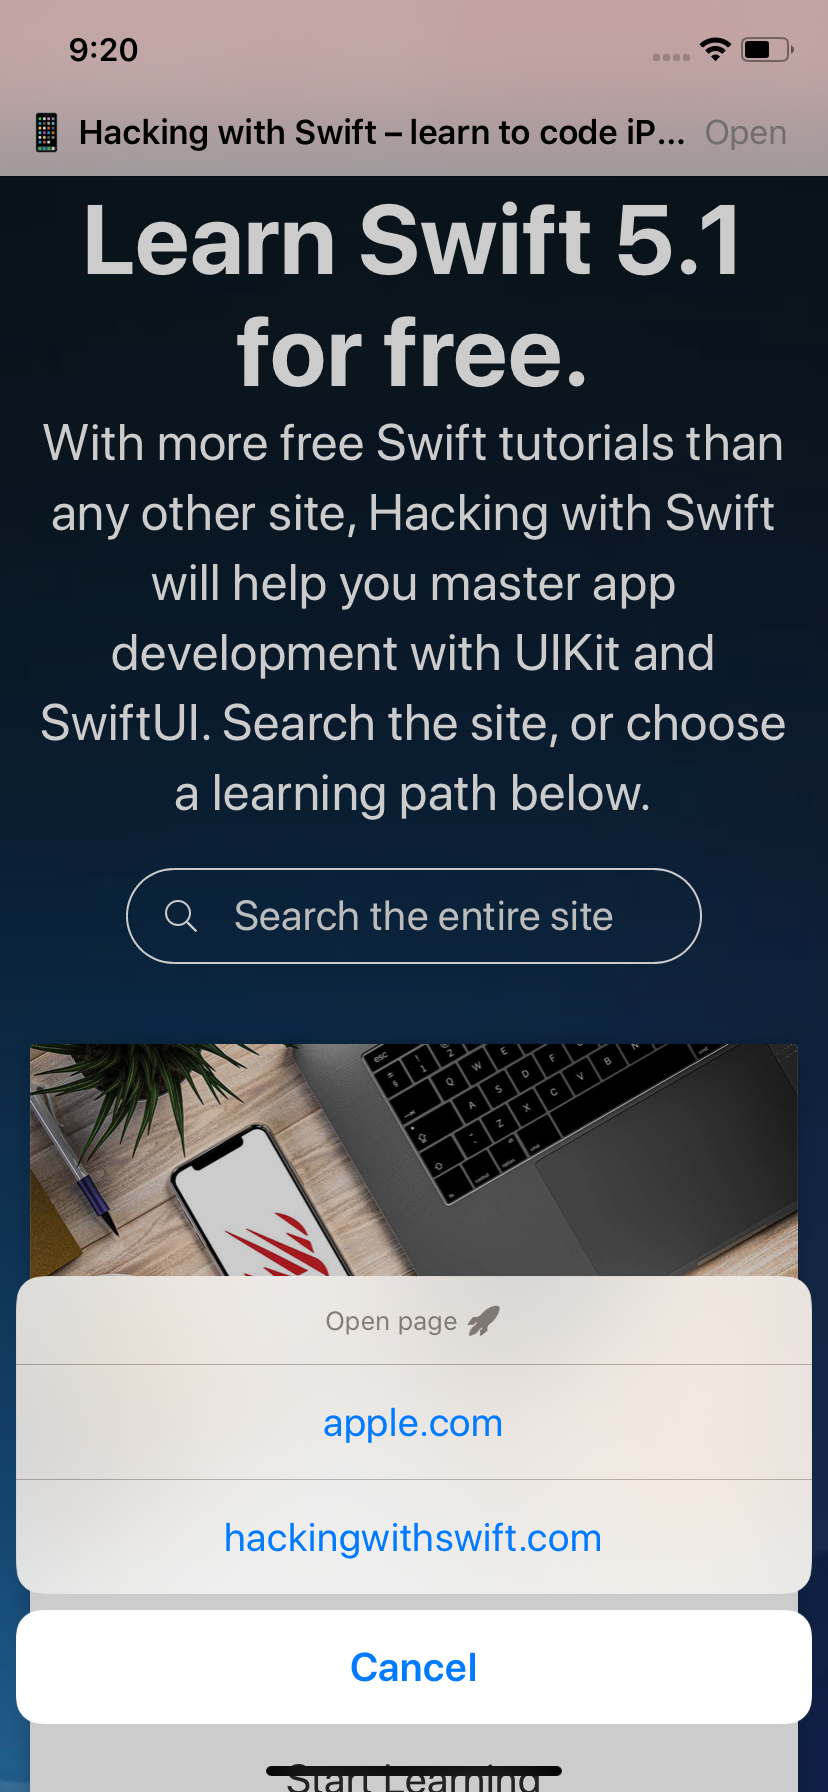
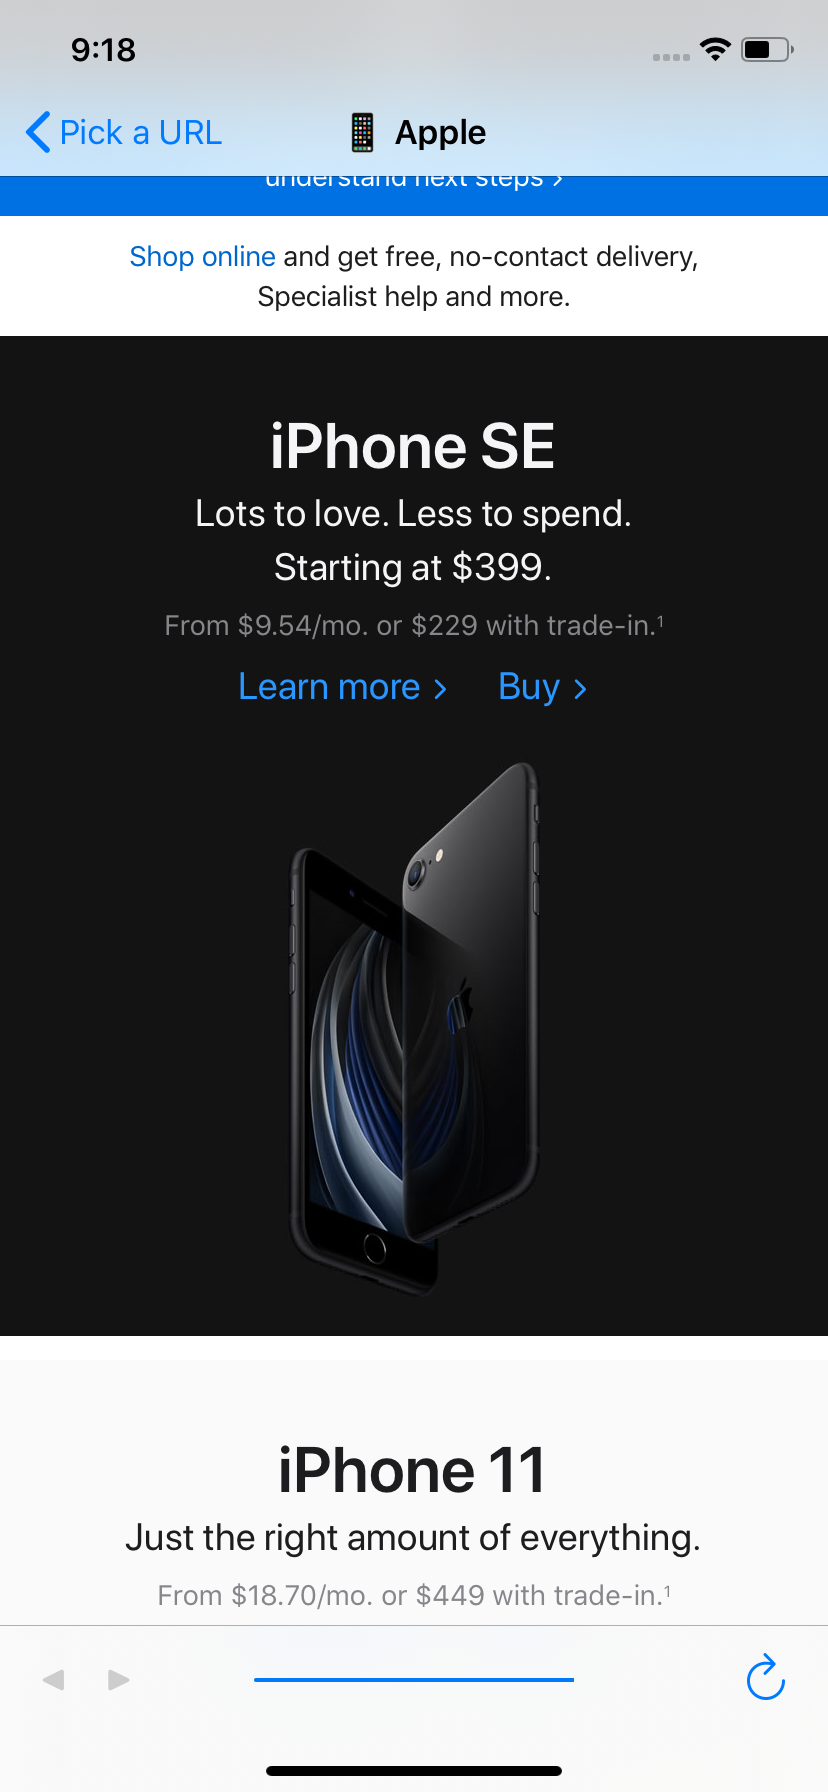
update project 4 readme

diff --git a/Project4/README.md b/Project4/README.md
@@ -1,13 +1,14 @@
 # Project 4: Easy Browser
 This project consists of a simple web browser using `WKWebView`. It has two websites to select from and render taking the entire device screen.
-The options are displayed using an `UIAlertController` with the `.actionSheet` `preferredStyle`.
+The options are on a `UITableViewController` listing the URLs. There's a navigation toolback showing back/forward, progress bar,
+and refresh buttons below using `UIBarButtonItem`.
 
-#### Web Browser
+#### Website Picker
 <p align="center">
   <img width="350" src="https://github.com/jcbages/100DaysOfSwift/blob/master/Project4/screenshots/screenshot1.png">
 </p>
 
-#### Website Picker
+#### Web Browser
 <p align="center">
   <img width="350" src="https://github.com/jcbages/100DaysOfSwift/blob/master/Project4/screenshots/screenshot2.png">
 </p>
